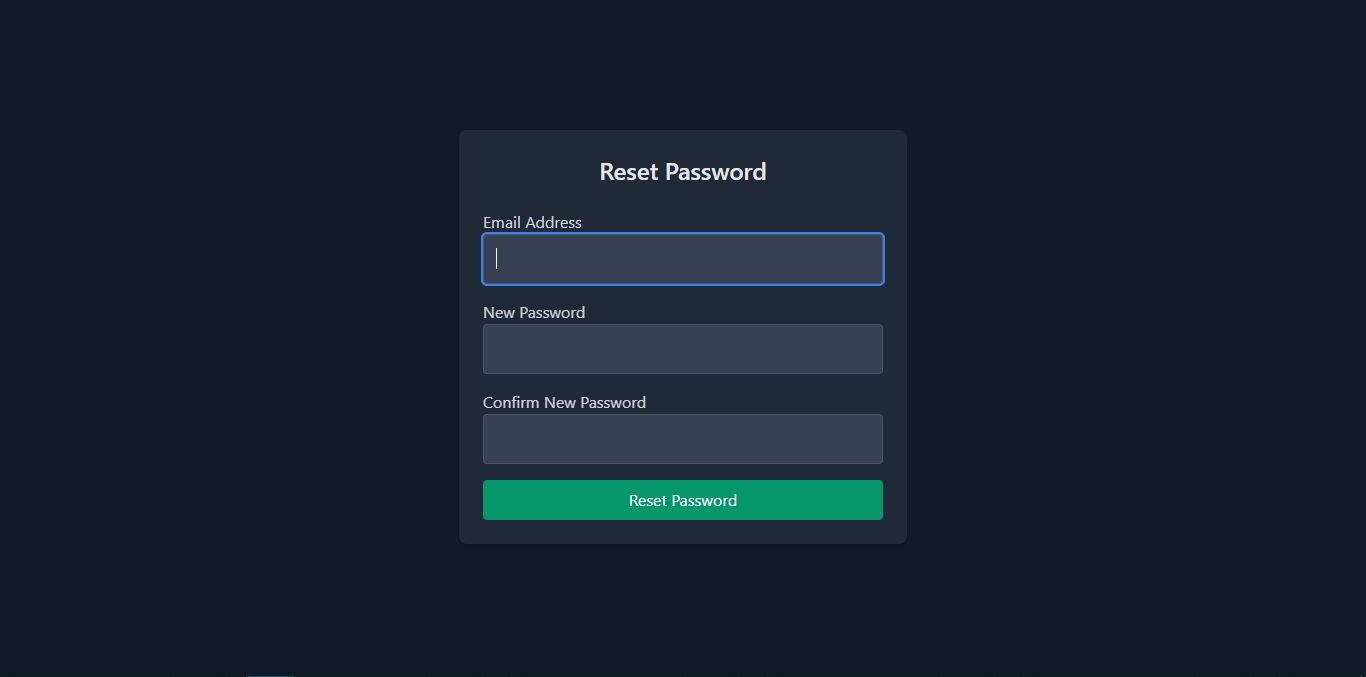
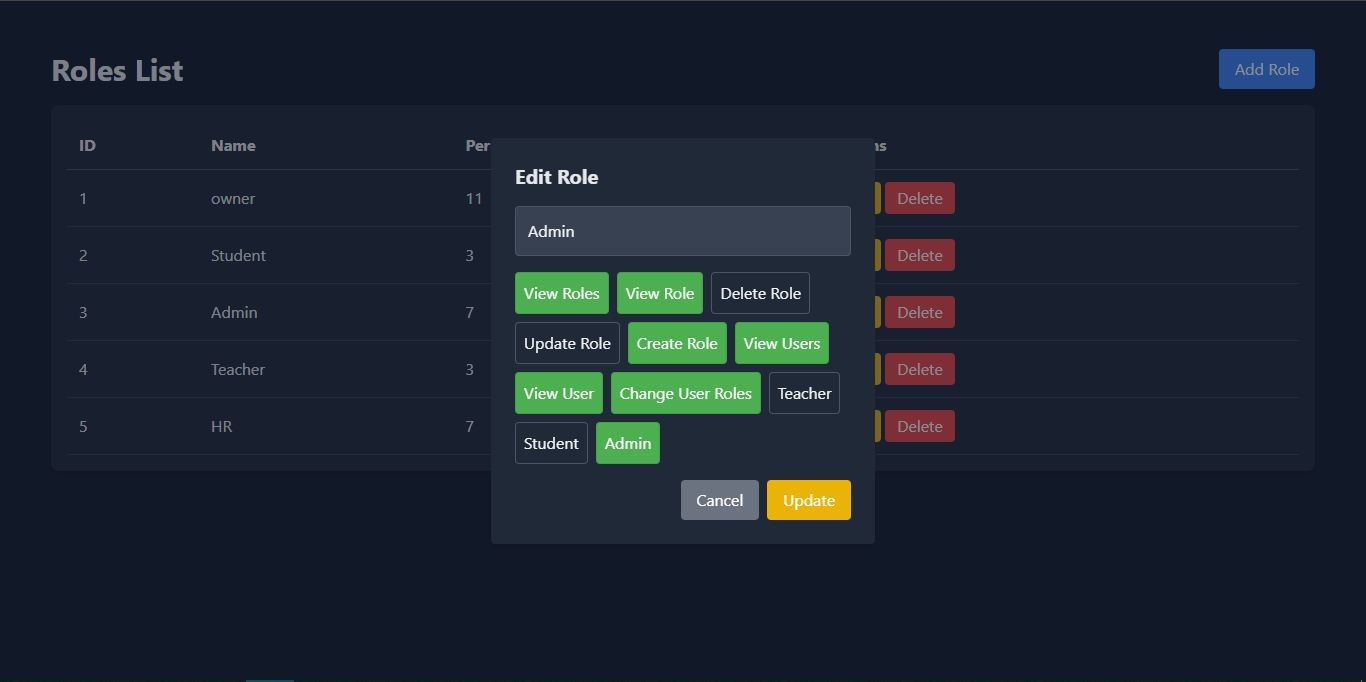
refactor: Update AUTH_SYSTEM_1 image format to PNG and remove AUTH_SYSTEM_9

diff --git a/src/assets/data/ProjectsData.js b/src/assets/data/ProjectsData.js
@@ -112,7 +112,7 @@ import GAME_HUB_7 from "../images/projects/game-hub/7.png";
 import GAME_HUB_8 from "../images/projects/game-hub/8.png";
 
 // AUTHENTICATION SYSTEM IMAGES
-import AUTH_SYSTEM_1 from "../images/projects/authentication-system/1.jpg";
+import AUTH_SYSTEM_1 from "../images/projects/authentication-system/1.png";
 import AUTH_SYSTEM_2 from "../images/projects/authentication-system/2.jpg";
 import AUTH_SYSTEM_3 from "../images/projects/authentication-system/3.jpg";
 import AUTH_SYSTEM_4 from "../images/projects/authentication-system/4.jpg";
@@ -120,7 +120,6 @@ import AUTH_SYSTEM_5 from "../images/projects/authentication-system/5.jpg";
 import AUTH_SYSTEM_6 from "../images/projects/authentication-system/6.jpg";
 import AUTH_SYSTEM_7 from "../images/projects/authentication-system/7.jpg";
 import AUTH_SYSTEM_8 from "../images/projects/authentication-system/8.jpg";
-import AUTH_SYSTEM_9 from "../images/projects/authentication-system/9.jpg";
 
 // import skills icons
 import HTML from "../images/icons/html.png";
@@ -165,8 +164,8 @@ const ProjectsData = [
         AUTH_SYSTEM_4,
         AUTH_SYSTEM_5,
         AUTH_SYSTEM_6,
+        AUTH_SYSTEM_7,
         AUTH_SYSTEM_8,
-        AUTH_SYSTEM_9,
     ],
     languages: [LARAVEL, PHP, DB, HTML, CSS, JS, TailwindCSS, JQUERY],
     title: "Authentication System", 
